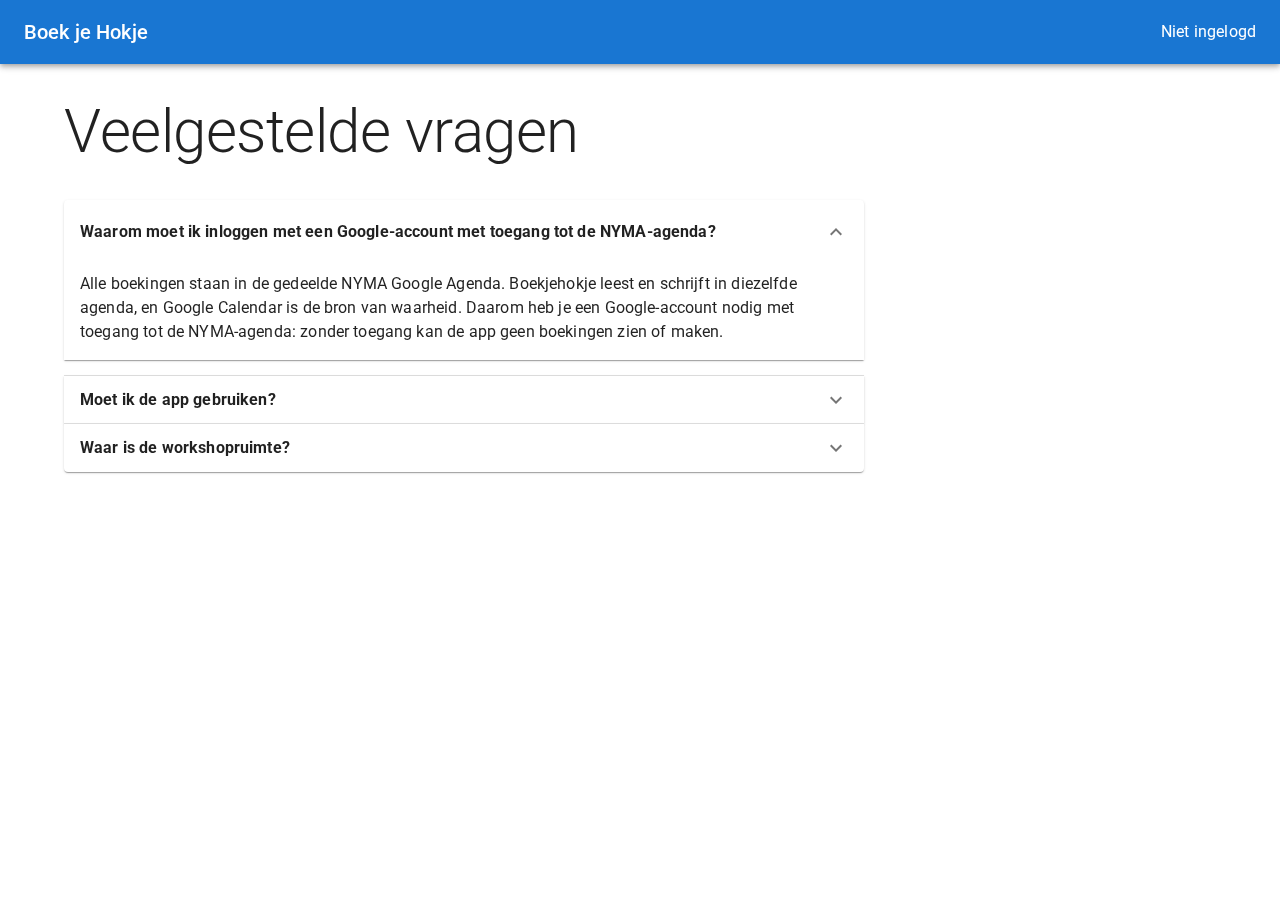
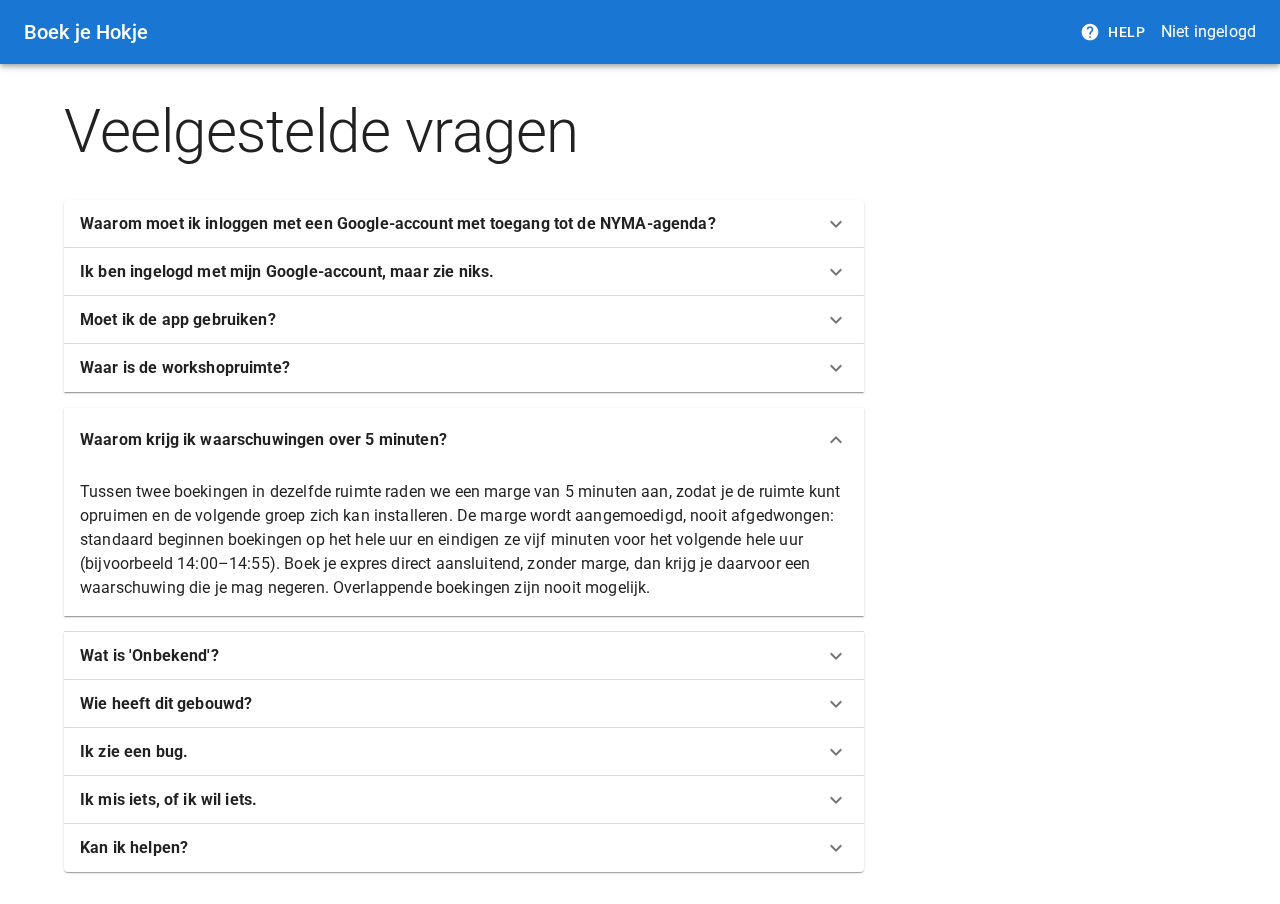
feat: address review on FAQ page
- Add a distinct 'Help' item (MUI Help icon) in the app bar, visible for
  all users whether logged in or not, linking to /faq; the FAQ entry is
  removed from the logged-in-only profile menu.
- Expand the FAQ with the reviewed questions, ordered logically:
  logged-in-but-see-nothing, 5-minute margin warnings (ADR-0006 summary),
  'Onbekend', who built it, bug reports, feature requests and contributing,
  with links to the GitHub issue tracker and repo.
- Refresh the review screenshots.

diff --git a/src/pages/Faq.tsx b/src/pages/Faq.tsx
@@ -4,6 +4,7 @@ import Typography from "@mui/material/Typography";
 import Accordion from "@mui/material/Accordion";
 import AccordionSummary from "@mui/material/AccordionSummary";
 import AccordionDetails from "@mui/material/AccordionDetails";
+import Link from "@mui/material/Link";
 import ExpandMoreIcon from "@mui/icons-material/ExpandMore";
 
 type FaqEntry = {
@@ -32,6 +33,18 @@ export function Faq(): React.JSX.Element {
       ),
     },
     {
+      vraag: "Ik ben ingelogd met mijn Google-account, maar zie niks.",
+      antwoord: (
+        <>
+          Controleer of je bent ingelogd met het account waarmee je bij de
+          NYMA-agenda kunt. Boekjehokje leest de boekingen met dat account; met
+          een ander Google-account (bijvoorbeeld je privé-account) zie je geen
+          ruimtes of boekingen. Log uit en log opnieuw in met het juiste
+          account.
+        </>
+      ),
+    },
+    {
       vraag: "Moet ik de app gebruiken?",
       antwoord: (
         <>
@@ -47,6 +60,73 @@ export function Faq(): React.JSX.Element {
         <>
           De workshopruimte is gesloten en tot nader bericht niet boekbaar,
           zoals NYMA in oktober 2026 heeft aangekondigd.
+        </>
+      ),
+    },
+    {
+      vraag: "Waarom krijg ik waarschuwingen over 5 minuten?",
+      antwoord: (
+        <>
+          Tussen twee boekingen in dezelfde ruimte raden we een marge van 5
+          minuten aan, zodat je de ruimte kunt opruimen en de volgende groep
+          zich kan installeren. De marge wordt aangemoedigd, nooit afgedwongen:
+          standaard beginnen boekingen op het hele uur en eindigen ze vijf
+          minuten voor het volgende hele uur (bijvoorbeeld 14:00–14:55). Boek je
+          expres direct aansluitend, zonder marge, dan krijg je daarvoor een
+          waarschuwing die je mag negeren. Overlappende boekingen zijn nooit
+          mogelijk.
+        </>
+      ),
+    },
+    {
+      vraag: "Wat is 'Onbekend'?",
+      antwoord: (
+        <>
+          Een fictieve ruimte waarin we alle boekingen zetten die we niet konden
+          koppelen aan een echte ruimte. Bijvoorbeeld door een typefout
+          ('Ketshok 03'), een niet-bestaande ruimte ('KH 06'), of omdat de
+          boeking zich niet houdt aan de afspraken over het opmaken van
+          boekingen.
+        </>
+      ),
+    },
+    {
+      vraag: "Wie heeft dit gebouwd?",
+      antwoord: <>Bär Kessels uit unit 65/63.</>,
+    },
+    {
+      vraag: "Ik zie een bug.",
+      antwoord: (
+        <>
+          Meld de bug op{" "}
+          <Link href="https://github.com/berkes/boekjehokje/issues">
+            onze issue tracker
+          </Link>{" "}
+          en voeg een schermafdruk toe, dan kunnen we het snel oplossen.
+        </>
+      ),
+    },
+    {
+      vraag: "Ik mis iets, of ik wil iets.",
+      antwoord: (
+        <>
+          Feature requests kun je ook op{" "}
+          <Link href="https://github.com/berkes/boekjehokje/issues">
+            de issue tracker
+          </Link>{" "}
+          zetten. Leg vooral uit waarom je het wilt.
+        </>
+      ),
+    },
+    {
+      vraag: "Kan ik helpen?",
+      antwoord: (
+        <>
+          Jazeker! Boekjehokje is open source:{" "}
+          <Link href="https://github.com/berkes/boekjehokje">
+            github.com/berkes/boekjehokje
+          </Link>
+          .
         </>
       ),
     },

diff --git a/src/App.tsx b/src/App.tsx
@@ -15,6 +15,8 @@ import { useUser } from "./context/useUser.ts";
 import { ProfileMenu } from "./components/ProfileMenu.tsx";
 import AppBar from "@mui/material/AppBar";
 import Toolbar from "@mui/material/Toolbar";
+import Button from "@mui/material/Button";
+import HelpIcon from "@mui/icons-material/Help";
 import { BrowserRouter as Router, Link, Route, Routes } from "react-router-dom";
 import { DemoCalendar, Faq, Settings } from "./pages/index.ts";
 import { ProtectedRoute } from "./components/ProtectedRoute.tsx";
@@ -47,6 +49,15 @@ function App(): React.JSX.Element {
                 >
                   Boek je Hokje
                 </Typography>
+                <Button
+                  component={Link}
+                  to="/faq"
+                  color="inherit"
+                  startIcon={<HelpIcon />}
+                  sx={{ mr: 1 }}
+                >
+                  Help
+                </Button>
                 <ProfileMenu />
               </Toolbar>
             </AppBar>

diff --git a/src/components/ProfileMenu.tsx b/src/components/ProfileMenu.tsx
@@ -34,10 +34,6 @@ export function ProfileMenu(): React.JSX.Element {
     navigate("/settings");
     handleCloseUserMenu();
   };
-  const handleNavigateToFaq = () => {
-    navigate("/faq");
-    handleCloseUserMenu();
-  };
   const handleLogout = () => {
     logout();
     handleCloseUserMenu();
@@ -92,11 +88,6 @@ export function ProfileMenu(): React.JSX.Element {
         >
           <MenuItem key="account" onClick={handleNavigateToSettings}>
             <Typography sx={{ textAlign: "center" }}>Mijn account</Typography>
-          </MenuItem>
-          <MenuItem key="faq" onClick={handleNavigateToFaq}>
-            <Typography sx={{ textAlign: "center" }}>
-              Veelgestelde vragen
-            </Typography>
           </MenuItem>
           <MenuItem key="logout" onClick={handleLogout}>
             <Typography sx={{ textAlign: "center" }}>Uitloggen</Typography>
